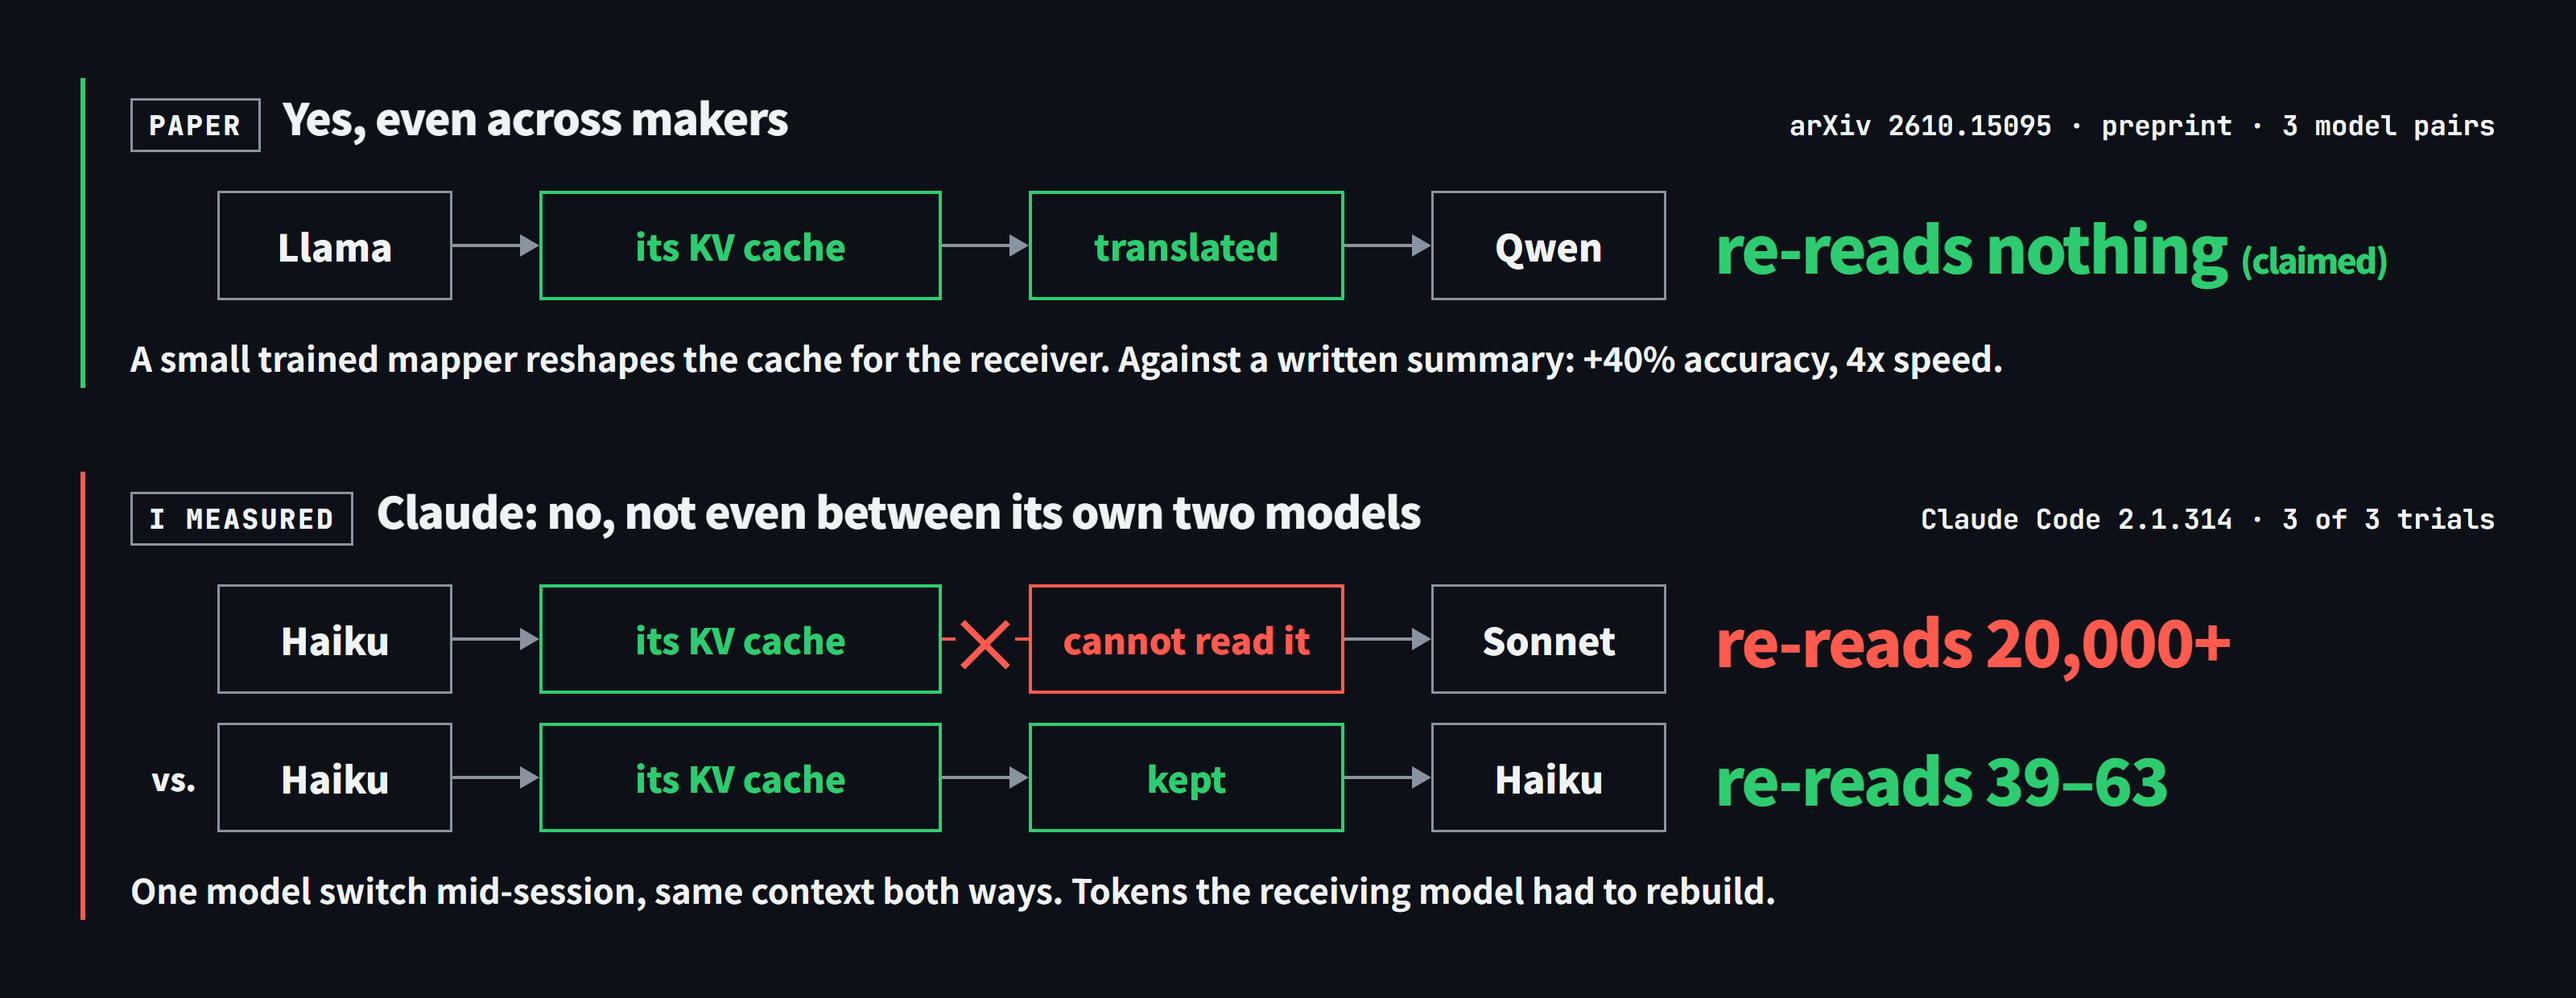
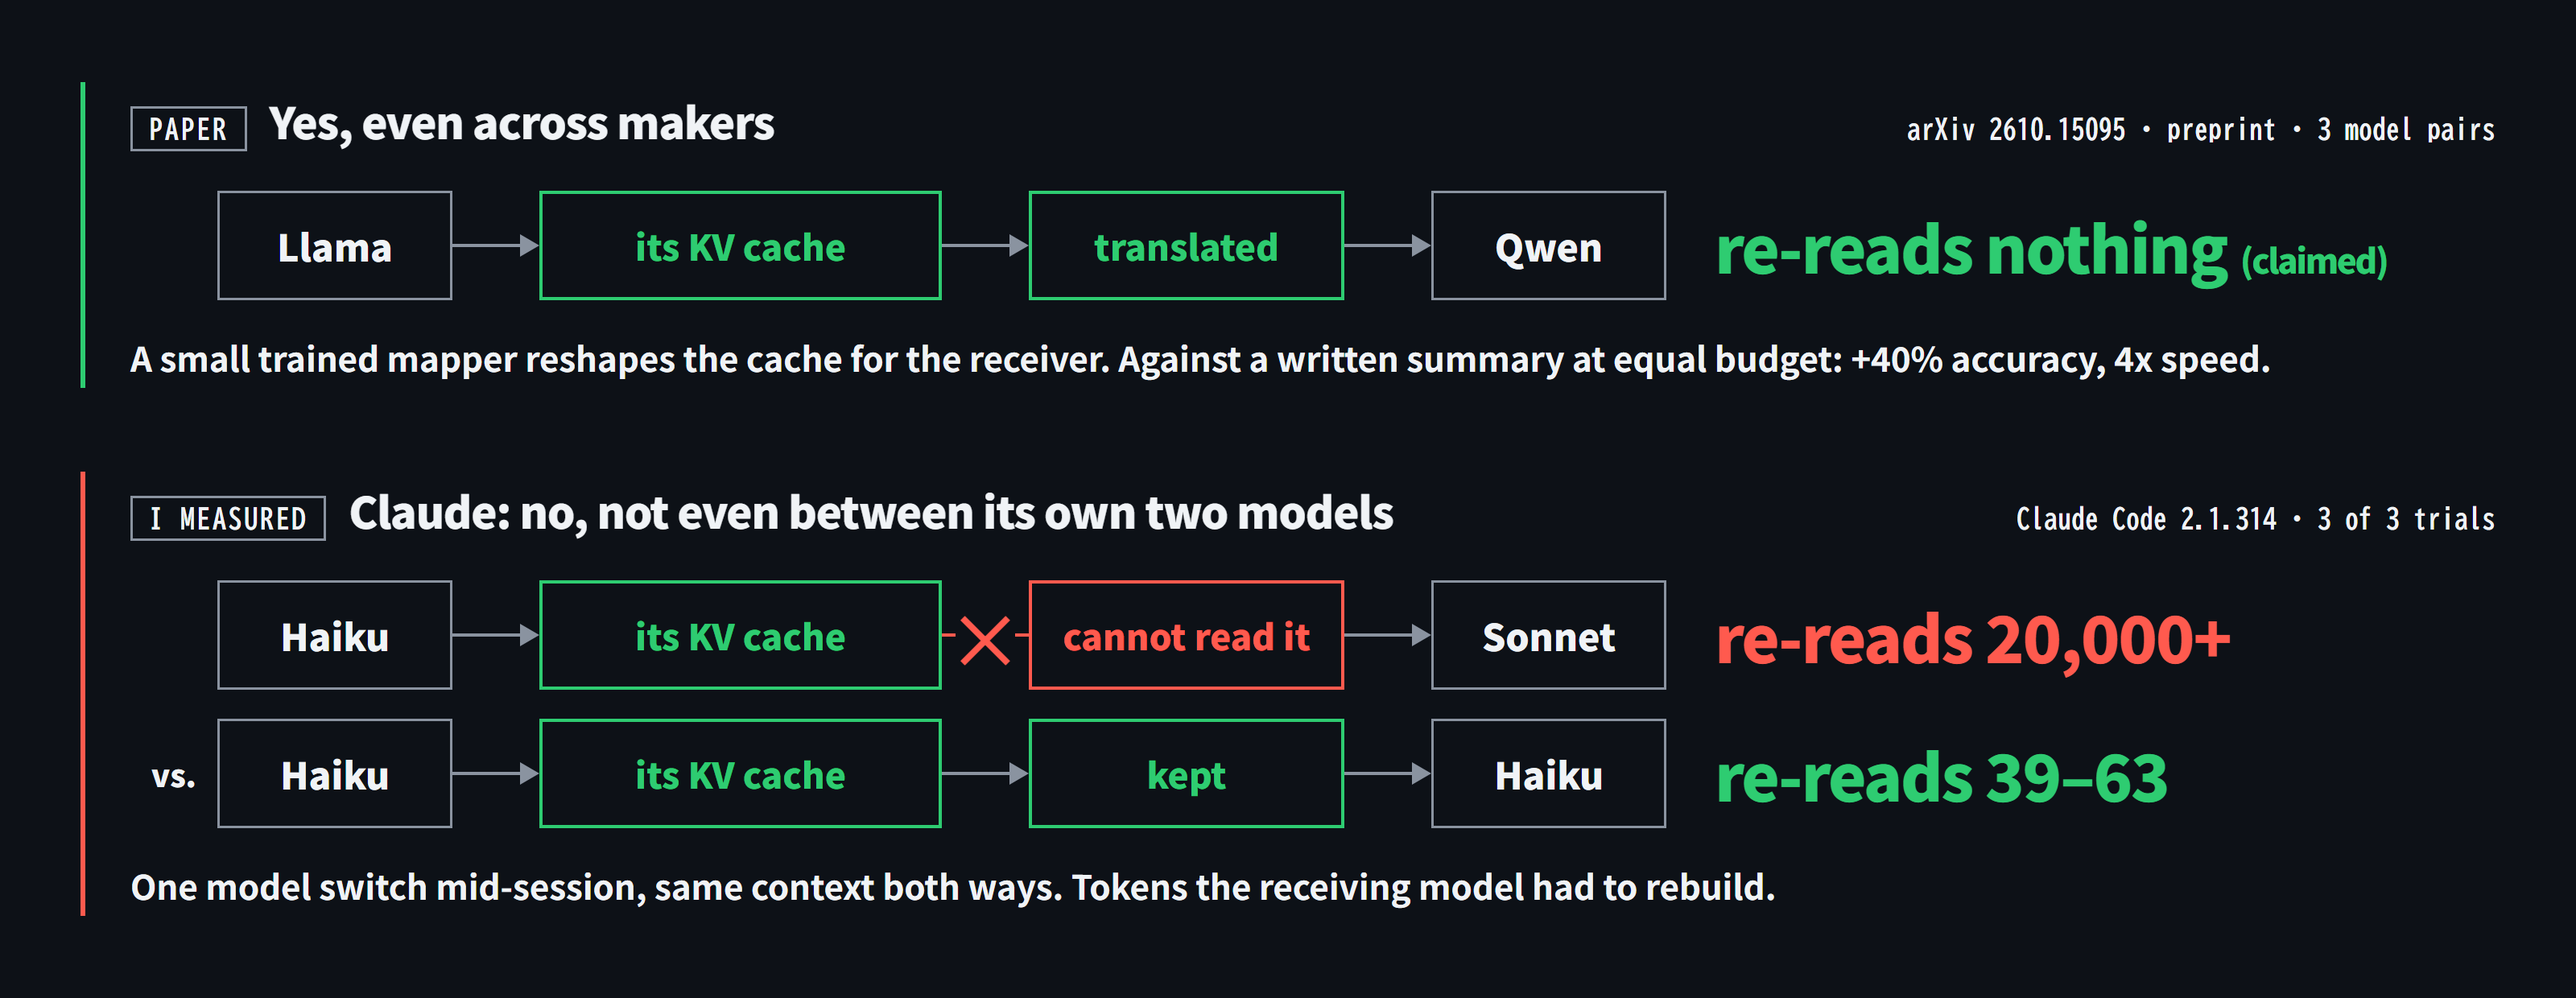
図の注記に論文の比較条件（equal budget）を足し、README の論文の帰属を所属名と査読の記載有無に直す

diff --git a/docs/overview.html b/docs/overview.html
@@ -96,7 +96,7 @@
         <div class="out good">re-reads nothing <span class="q">(claimed)</span></div>
       </div>
 
-      <div class="note">A small trained mapper reshapes the cache for the receiver. Against a written summary: +40% accuracy, 4x speed.</div>
+      <div class="note">A small trained mapper reshapes the cache for the receiver. Against a written summary at equal budget: +40% accuracy, 4x speed.</div>
     </div>
 
     <!-- MEASURED -->

diff --git a/docs/social-preview.html b/docs/social-preview.html
@@ -99,7 +99,7 @@
         <div class="out good">re-reads nothing <span class="q">(claimed)</span></div>
       </div>
 
-      <div class="note">A small trained mapper reshapes the cache for the receiver. Against a written summary: +40% accuracy, 4x speed.</div>
+      <div class="note">A small trained mapper reshapes the cache for the receiver. Against a written summary at equal budget: +40% accuracy, 4x speed.</div>
     </div>
 
     <!-- MEASURED -->
